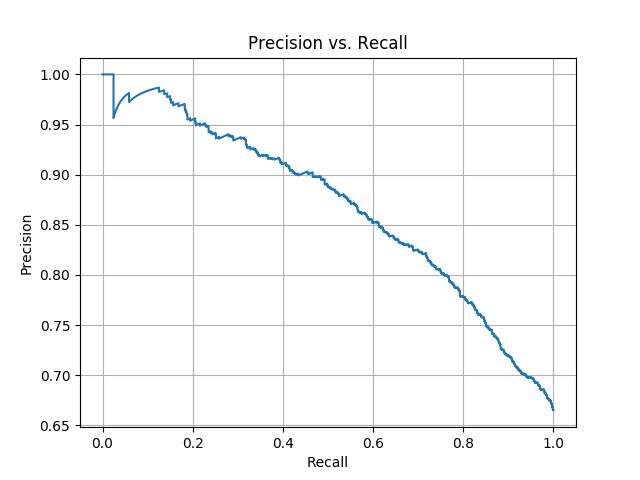
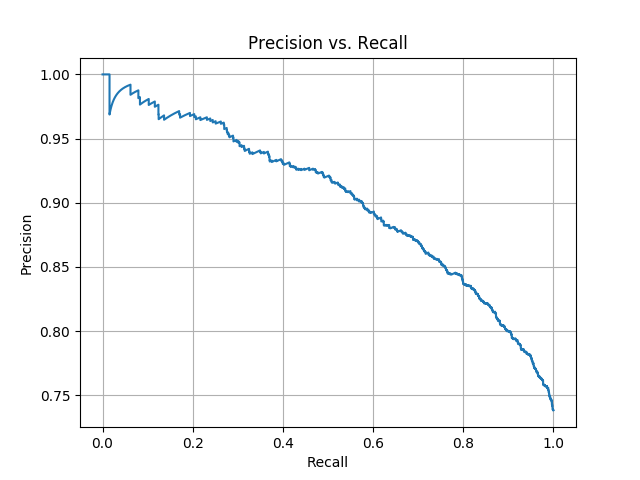
update

diff --git a/README.md b/README.md
@@ -6,6 +6,9 @@ If GPU resource is needed, you can set the `GPU_DEVICE_NUM` in `local_config.py`
 If you are using GPU to train, then the device in `test.py` must be set to `GPU` too.
 
 ## Results
+
+### WordEmbedding: 50 & Pos Embedding: 5
+
 A middle result in training set shows that the model is overfitted, but it has a strong ability to fit with fast training process. So if you can finetune the model (probabily the position embedding dimension) or use a more powerful pretrained embedding, the result will grow better.
 ```
  [99,   120] AVG-Loss: 0.7125 - TRAIN >>> ACC: 0.8539, Precision: 0.8539, Recall: 0.8539, F1-micro: 0.8539, F1-macro: 0.7998
@@ -44,4 +47,41 @@ TEST >>> ACC: 0.6651, Precision: 0.6651, Recall: 0.6651, F1-micro: 0.6651, F1-ma
 
 TEST >>> AUC: 0.8681
 ```
-![PRC](result/test_prc.png)
+![50-5](result/test_prc50.png)
+
+### Word Embedding: 300 & Pos Embedding: 100
+
+```
+word_vectors : 300 21772
+                           precision    recall  f1-score   support
+
+      Cause-Effect(e2,e1)     0.8776    0.8866    0.8821       194
+      Cause-Effect(e1,e2)     0.9435    0.8731    0.9070       134
+ Content-Container(e2,e1)     0.8000    0.6154    0.6957        39
+ Content-Container(e1,e2)     0.7514    0.8693    0.8061       153
+  Product-Producer(e2,e1)     0.7282    0.6098    0.6637       123
+ Member-Collection(e2,e1)     0.7778    0.9055    0.8368       201
+  Product-Producer(e1,e2)     0.7857    0.7130    0.7476       108
+                    Other     0.4525    0.4824    0.4670       454
+ Member-Collection(e1,e2)     0.7857    0.3438    0.4783        32
+ Instrument-Agency(e1,e2)     0.6667    0.0909    0.1600        22
+   Component-Whole(e2,e1)     0.6899    0.7267    0.7078       150
+Entity-Destination(e1,e2)     0.8173    0.8763    0.8458       291
+     Entity-Origin(e2,e1)     0.9000    0.7660    0.8276        47
+     Entity-Origin(e1,e2)     0.7709    0.8294    0.7991       211
+Entity-Destination(e2,e1)     0.0000    0.0000    0.0000         1
+ Instrument-Agency(e2,e1)     0.7500    0.6493    0.6960       134
+     Message-Topic(e1,e2)     0.8028    0.8333    0.8178       210
+     Message-Topic(e2,e1)     0.7879    0.5098    0.6190        51
+   Component-Whole(e1,e2)     0.8400    0.7778    0.8077       162
+
+                 accuracy                         0.7365      2717
+                macro avg     0.7330    0.6504    0.6718      2717
+             weighted avg     0.7400    0.7365    0.7331      2717
+
+TEST >>> ACC: 0.7365, Precision: 0.7365, Recall: 0.7365, F1-micro: 0.7365, F1-macro: 0.6718
+
+TEST >>> AUC: 0.9017
+```
+
+![300-100](result/test_prc.png)
